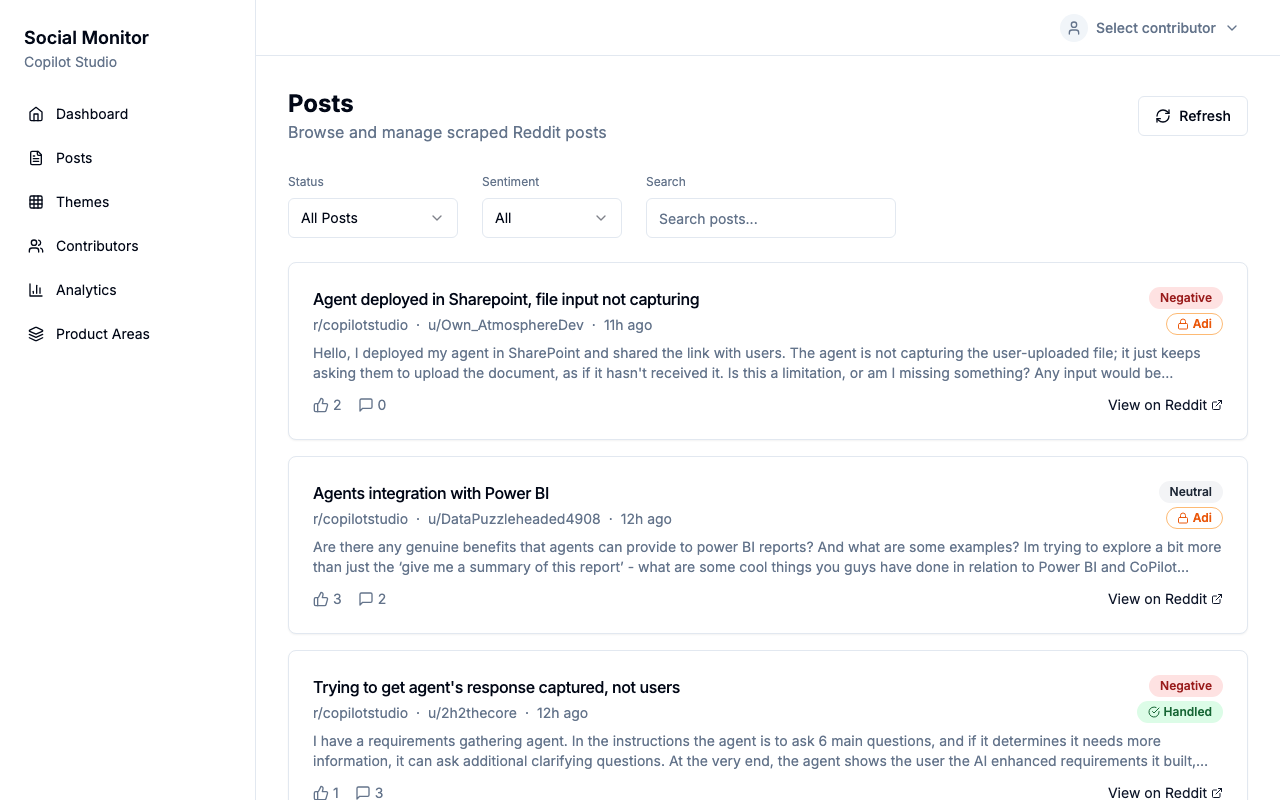
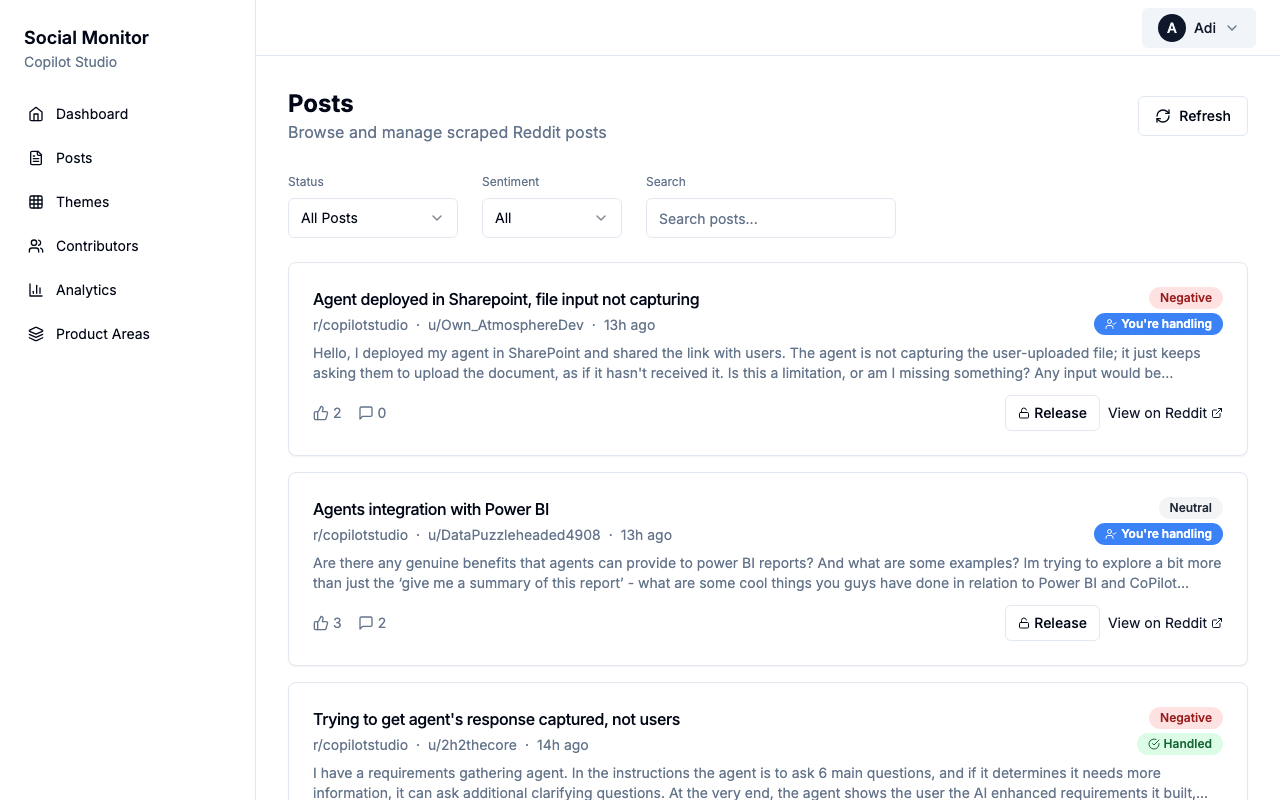
Add post-detail screenshot to contributor guide
- Fix screenshot script: select contributor first, fix post detail selector
- Retake all screenshots with contributor selected
- Add post-detail screenshot to Step 4 (Mark as Resolved)

diff --git a/frontend/scripts/take-screenshots.ts b/frontend/scripts/take-screenshots.ts
@@ -3,6 +3,24 @@ import { chromium } from '@playwright/test';
 const BASE_URL = process.env.BASE_URL || 'http://localhost:3002';
 const SCREENSHOT_DIR = '../docs/screenshots';
 
+async function selectContributor(page: any, name: string) {
+  const selectTrigger = page.getByRole('button', { name: /Select contributor/i });
+  if (await selectTrigger.count() > 0) {
+    await selectTrigger.click();
+    await page.waitForTimeout(150);
+    await page.keyboard.type(name.slice(0, 5), { delay: 50 });
+    await page.waitForTimeout(100);
+    const menuitem = page.getByRole('menuitem', { name: new RegExp(name, 'i') });
+    if (await menuitem.count() > 0) {
+      await menuitem.evaluate((el: HTMLElement) => {
+        el.scrollIntoView({ block: 'center', behavior: 'instant' });
+        el.click();
+      });
+      await page.waitForTimeout(300);
+    }
+  }
+}
+
 async function takeScreenshots() {
   const browser = await chromium.launch();
   const context = await browser.newContext({
@@ -11,6 +29,13 @@ async function takeScreenshots() {
   const page = await context.newPage();
 
   console.log('Taking screenshots...');
+
+  // First, select a contributor so action buttons are visible
+  await page.goto(BASE_URL);
+  await page.waitForLoadState('networkidle');
+  await page.waitForTimeout(500);
+  console.log('0. Selecting contributor...');
+  await selectContributor(page, 'Adi');
 
   // Dashboard
   console.log('1. Dashboard');
@@ -37,12 +62,13 @@ async function takeScreenshots() {
   console.log('4. Post detail');
   await page.goto(`${BASE_URL}/posts`);
   await page.waitForLoadState('networkidle');
-  const firstPostLink = page.locator('a[href^="/posts/"]').first();
+  await page.waitForTimeout(500);
+  const firstPostLink = page.locator('a[href*="/posts/detail"]').first();
   if (await firstPostLink.count() > 0) {
     await firstPostLink.click();
     await page.waitForLoadState('networkidle');
     await page.waitForTimeout(1000);
-    await page.screenshot({ path: `${SCREENSHOT_DIR}/post-detail.png`, fullPage: true });
+    await page.screenshot({ path: `${SCREENSHOT_DIR}/post-detail.png` });
   }
 
   // Contributors

diff --git a/docs/CONTRIBUTOR_GUIDE.md b/docs/CONTRIBUTOR_GUIDE.md
@@ -54,6 +54,8 @@ This prevents duplicate responses - teammates will see the post is being worked 
 
 After handling a post, mark it as resolved so it's cleared from the queue.
 
+![Post Detail](screenshots/post-detail.png)
+
 Click **Mark as Done** when:
 
 - **You responded** on Reddit
